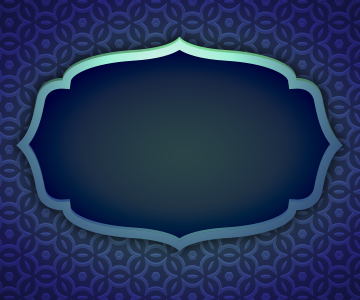
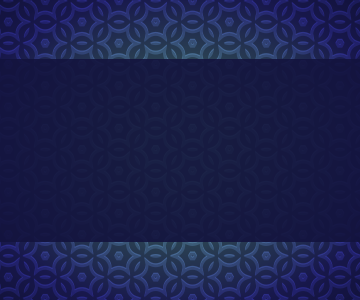
commit v5 to Quran App

diff --git a/lib/screens/share_ayat_with_bg_screen.dart b/lib/screens/share_ayat_with_bg_screen.dart
@@ -35,7 +35,20 @@ class _ShareAyatWithBgScreenState extends State<ShareAyatWithBgScreen> {
   List<String> assetImagePaths = [
     'assets/images/frame_1.png',
     'assets/images/frame_2.png',
-    'assets/images/bg_peach.png',
+    'assets/images/frame_3.png',
+    'assets/images/frame_4.png',
+    'assets/images/frame_5.png',
+    'assets/images/frame_6.png',
+    'assets/images/frame_7.png',
+    'assets/images/frame_8.png',
+    'assets/images/frame_9.png',
+    'assets/images/frame_10.png',
+    'assets/images/frame_11.png',
+    'assets/images/frame_12.png',
+    'assets/images/frame_13.png',
+    'assets/images/frame_14.png',
+    'assets/images/frame_15.png',
+    'assets/images/frame_16.png',
   ];
 
   int selectedIndex = 0;
@@ -92,12 +105,12 @@ class _ShareAyatWithBgScreenState extends State<ShareAyatWithBgScreen> {
                   //  'assets/images/bg_1.jpg', // Replace 'assets/your_image.png' with your image path
                   assetImagePaths[selectedIndex],
                   width: MediaQuery.of(context).size.width,
-                  height: 300,
+                  height: 370,
                   fit: BoxFit.cover,
                 ),
                 Container(
                   width: MediaQuery.of(context).size.width,
-                  height: 300,
+                  height: 370,
                   alignment: Alignment.center,
                   child: Padding(
                     padding: const EdgeInsets.all(8.0),
@@ -106,12 +119,10 @@ class _ShareAyatWithBgScreenState extends State<ShareAyatWithBgScreen> {
                       crossAxisAlignment: CrossAxisAlignment.center,
                       children: [
                         Text(
-                          'Surah No ${widget.surahNumberOrTitle}' +
-                              ' : ' +
-                              'Ayat No ${widget.ayatNumber}',
-                          style: TextStyle(color: Colors.white),
+                          'Surah No ${widget.surahNumberOrTitle} : Ayat No ${widget.ayatNumber}',
+                          style: const TextStyle(color: Colors.white),
                         ),
-                        SizedBox(
+                        const SizedBox(
                           height: 7,
                         ),
                         Text(
@@ -156,7 +167,7 @@ class _ShareAyatWithBgScreenState extends State<ShareAyatWithBgScreen> {
             height: 130,
             child: FlutterCarousel.builder(
                 options: CarouselOptions(
-                  scrollBehavior: MaterialScrollBehavior(),
+                  scrollBehavior: const MaterialScrollBehavior(),
                   // height: 400.0,
 
                   aspectRatio: 16 / 9,

diff --git a/lib/screens/surah_screen.dart b/lib/screens/surah_screen.dart
@@ -89,7 +89,7 @@ class _SurahScreenState extends State<SurahScreen> {
                 ),
               );
             },
-            icon: Icon(
+            icon: const Icon(
               Icons.play_arrow,
             ),
           ),
@@ -193,9 +193,9 @@ class _SurahScreenState extends State<SurahScreen> {
                                                       .amber, // Change text color
                                             ),
                                           ),
-                                    SizedBox(width: 4),
+                                    const SizedBox(width: 4),
                                     InkWell(
-                                      child: Icon(
+                                      child: const Icon(
                                         Icons.share,
                                         color: Colors.white,
                                         size: 17,
